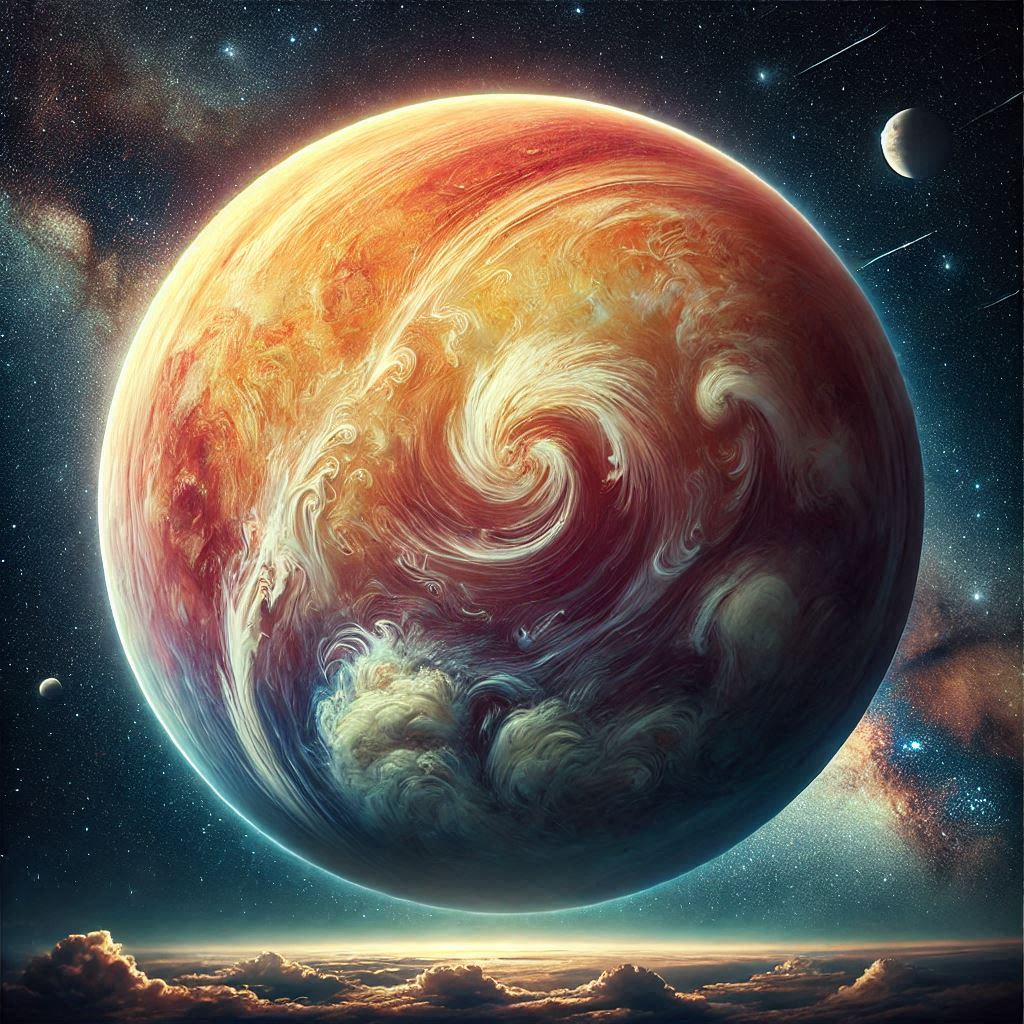
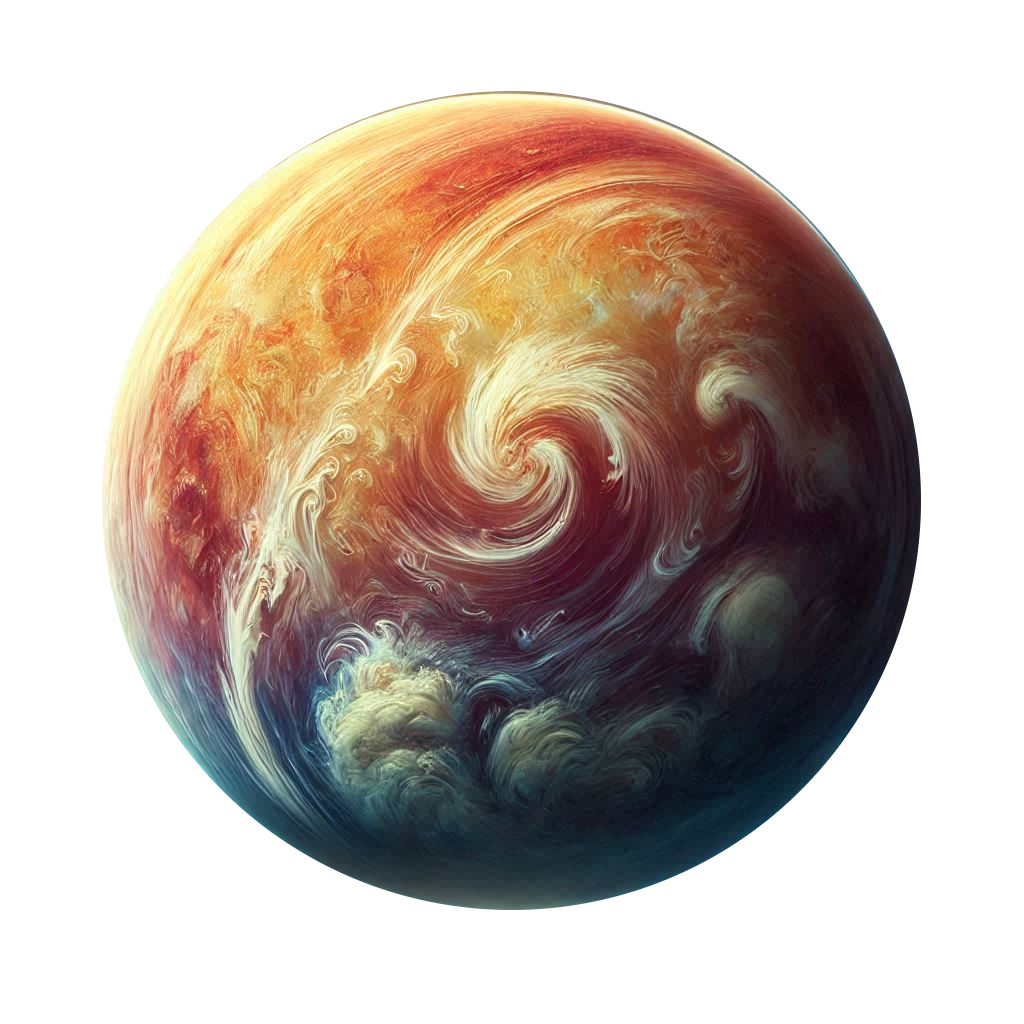
update

diff --git a/app/page.tsx b/app/page.tsx
@@ -1,13 +1,13 @@
-'use client';
+"use client";
 
-import { useRef, useState } from 'react';
-import { HomeIcon } from 'lucide-react';
-import PlanetSection from '@/components/PlanetSection';
-import StarField from '@/components/StarField';
-import RocketButton from '@/components/RocketButton';
-import { Button } from '@/components/ui/button';
-import { planets } from '@/lib/data';
-import { useSpaceTravel } from '@/hooks/useSpaceTravel';
+import { useRef, useState } from "react";
+import { HomeIcon } from "lucide-react";
+import PlanetSection from "@/components/PlanetSection";
+import StarField from "@/components/StarField";
+import RocketButton from "@/components/RocketButton";
+import { Button } from "@/components/ui/button";
+import { planets } from "@/lib/data";
+import { useSpaceTravel } from "@/hooks/useSpaceTravel";
 
 export default function Home() {
   const containerRef = useRef<HTMLDivElement>(null);
@@ -24,36 +24,40 @@ export default function Home() {
 
   const startExploration = () => {
     setCurrentPlanet(0);
-    scrollWithEffect('planet-0');
+    scrollWithEffect("planet-0");
   };
 
   const returnHome = () => {
     setCurrentPlanet(-1);
-    scrollWithEffect('welcome');
+    scrollWithEffect("welcome");
   };
 
   return (
     <main className="relative h-screen overflow-hidden bg-black">
       <StarField />
-      
-      <div 
+
+      <div
         ref={containerRef}
         className="flex h-screen snap-x snap-mandatory overflow-x-auto scrollbar-hide transition-all duration-500"
       >
         {/* Welcome Section */}
-        <section id="welcome" className="flex min-w-full h-full snap-start items-center justify-center relative">
+        <section
+          id="welcome"
+          className="flex min-w-full h-full snap-start items-center justify-center relative"
+        >
           <div className="text-center space-y-6 p-8 max-w-2xl mx-auto">
             <h1 className="text-6xl font-bold bg-clip-text text-transparent bg-gradient-to-r from-blue-500 to-purple-600">
               Exploration du Système Solaire
             </h1>
             <p className="text-xl text-gray-300">
-              Embarquez pour un voyage extraordinaire à travers notre système solaire
+              Embarquez pour un voyage extraordinaire à travers notre système
+              solaire
             </p>
             <Button
               onClick={startExploration}
               className="group bg-gradient-to-r from-blue-600 to-purple-600 hover:from-blue-700 hover:to-purple-700 text-white px-8 py-4 rounded-full text-lg transition-all duration-300"
             >
-              Commencer l'exploration
+              Commencer l&apos;exploration
               {/* <RocketButton onClick={() => {}} className="ml-2 inline-block" /> */}
             </Button>
           </div>
@@ -81,7 +85,7 @@ export default function Home() {
             <HomeIcon className="h-6 w-6 text-white" />
           </button>
         )}
-        
+
         {currentPlanet >= 0 && currentPlanet < planets.length - 1 && (
           <RocketButton onClick={scrollToNextPlanet} />
         )}

diff --git a/components/PlanetSection.tsx b/components/PlanetSection.tsx
@@ -30,12 +30,33 @@ export default function PlanetSection({
       id={`planet-${index}`}
       className="relative flex min-w-full h-full snap-start items-center justify-center p-8 "
     >
-      <div className="flex items-center justify-between w-full max-w-7xl mx-auto ">
+      <div className="flex flex-col md:flex-row items-center justify-between w-full max-w-7xl mx-auto ">
+        <motion.div
+          initial={{ opacity: 0, scale: 0.8 }}
+          animate={{
+            opacity: isActive ? 1 : 0.3,
+            scale: isHovered ? 1.1 : 1,
+          }}
+          transition={{ duration: 0.8 }}
+          onHoverStart={() => setIsHovered(true)}
+          onHoverEnd={() => setIsHovered(false)}
+          className="w-1/2 relative mt-24 md:mt-0 "
+        >
+          <div className="aspect-square relative ">
+            <Image
+              src={planet.image}
+              alt={planet.name}
+              fill
+              className="object-contain "
+              priority
+            />
+          </div>
+        </motion.div>
         <motion.div
           initial={{ opacity: 0, x: -100 }}
           animate={{ opacity: isActive ? 1 : 0.3, x: 0 }}
           transition={{ duration: 0.8 }}
-          className="w-1/2 pr-8 "
+          className="w-full md:w-1/2 pr-8 mb-10 md:mb-0 "
         >
           <Card className="bg-black/10 backdrop-blur-md border-gray-800 rounded-lg">
             <CardHeader>
@@ -60,28 +81,6 @@ export default function PlanetSection({
               </div>
             </CardContent>
           </Card>
-        </motion.div>
-
-        <motion.div
-          initial={{ opacity: 0, scale: 0.8 }}
-          animate={{
-            opacity: isActive ? 1 : 0.3,
-            scale: isHovered ? 1.1 : 1,
-          }}
-          transition={{ duration: 0.8 }}
-          onHoverStart={() => setIsHovered(true)}
-          onHoverEnd={() => setIsHovered(false)}
-          className="w-1/2 relative"
-        >
-          <div className="aspect-square relative ">
-            <Image
-              src={planet.image}
-              alt={planet.name}
-              fill
-              className="object-contain "
-              priority
-            />
-          </div>
         </motion.div>
       </div>
     </section>

diff --git a/components/StarField.tsx b/components/StarField.tsx
@@ -1,6 +1,6 @@
-'use client';
+"use client";
 
-import { useEffect, useRef } from 'react';
+import { useEffect, useRef } from "react";
 
 export default function StarField() {
   const canvasRef = useRef<HTMLCanvasElement>(null);
@@ -9,7 +9,7 @@ export default function StarField() {
     const canvas = canvasRef.current;
     if (!canvas) return;
 
-    const ctx = canvas.getContext('2d');
+    const ctx = canvas.getContext("2d");
     if (!ctx) return;
 
     // Set canvas size to window size
@@ -18,7 +18,7 @@ export default function StarField() {
       canvas.height = window.innerHeight;
     };
     resizeCanvas();
-    window.addEventListener('resize', resizeCanvas);
+    window.addEventListener("resize", resizeCanvas);
 
     // Star properties
     const stars: { x: number; y: number; size: number; speed: number }[] = [];
@@ -36,10 +36,9 @@ export default function StarField() {
 
     // Animation function
     function animate() {
-      ctx.fillStyle = 'rgba(0, 0, 0, 0.1)';
-      ctx.fillRect(0, 0, canvas.width, canvas.height);
+      ctx.clearRect(0, 0, canvas.width, canvas.height);
 
-      stars.forEach(star => {
+      stars.forEach((star) => {
         // Update star position
         star.x -= star.speed;
 
@@ -50,7 +49,7 @@ export default function StarField() {
         }
 
         // Draw star
-        ctx.fillStyle = 'rgba(255, 255, 255, 0.8)';
+        ctx.fillStyle = "rgba(255, 255, 255, 0.8)";
         ctx.beginPath();
         ctx.arc(star.x, star.y, star.size, 0, Math.PI * 2);
         ctx.fill();
@@ -62,7 +61,7 @@ export default function StarField() {
     animate();
 
     return () => {
-      window.removeEventListener('resize', resizeCanvas);
+      window.removeEventListener("resize", resizeCanvas);
     };
   }, []);
 

diff --git a/tailwind.config.ts b/tailwind.config.ts
@@ -14,11 +14,11 @@ const config: Config = {
         'gradient-conic':
           'conic-gradient(from 180deg at 50% 50%, var(--tw-gradient-stops))',
       },
-      borderRadius: {
-        lg: 'var(--radius)',
-        md: 'calc(var(--radius) - 2px)',
-        sm: 'calc(var(--radius) - 4px)',
-      },
+      // borderRadius: {
+      //   lg: 'var(--radius)',
+      //   md: 'calc(var(--radius) - 2px)',
+      //   sm: 'calc(var(--radius) - 4px)',
+      // },
       colors: {
         background: 'hsl(var(--background))',
         foreground: 'hsl(var(--foreground))',
